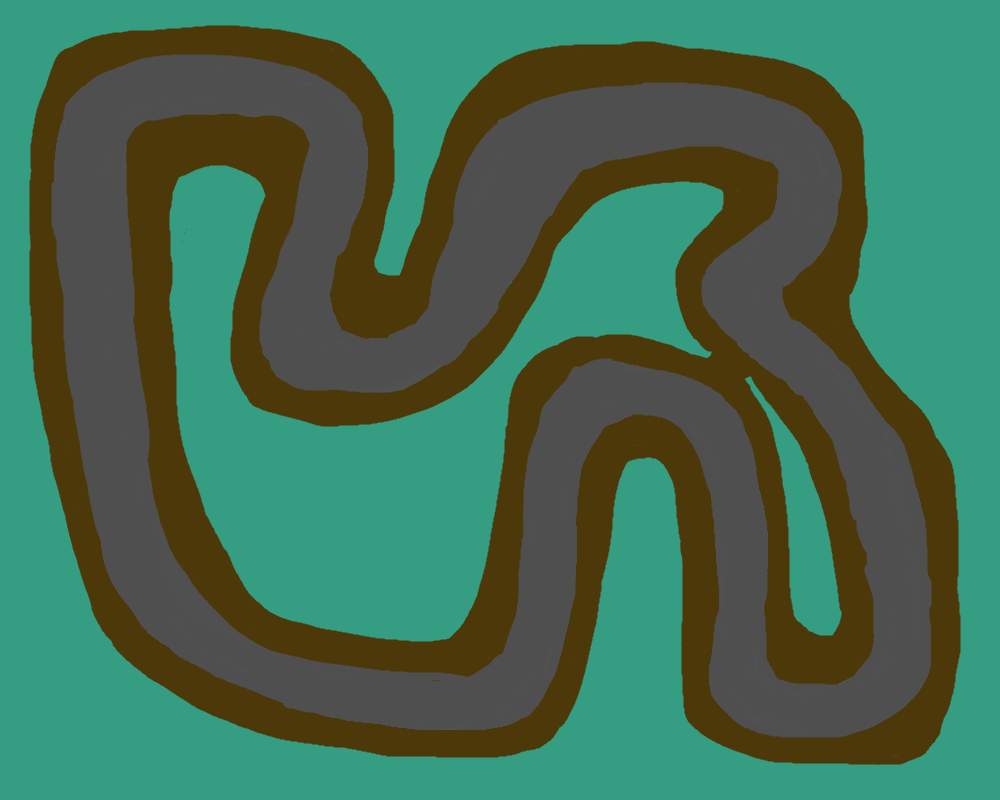
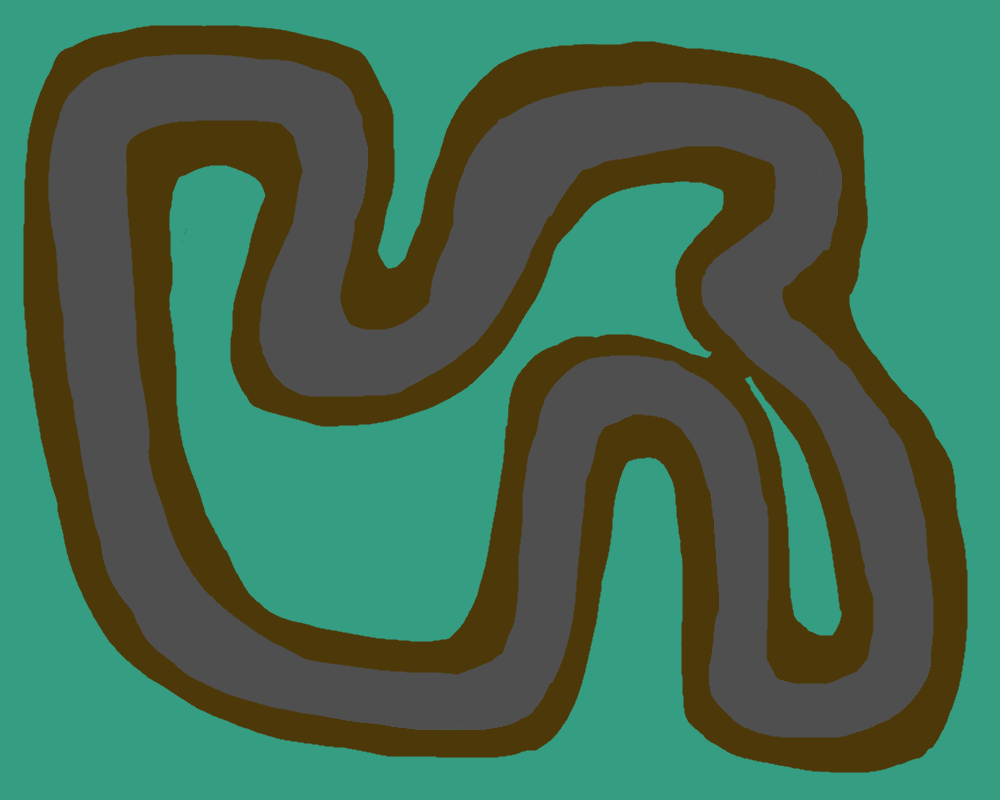
separated track into layers
first implementations at trying to use different method of player deceleration when going offroad, separated track into 2 layers

diff --git a/src/Raceing.java b/src/Raceing.java
@@ -24,6 +24,8 @@ import javax.swing.border.LineBorder;
 
 public class Raceing extends JFrame {
     private static StartScreen startScreen;
+    private static Image twisty_turn_main;
+    private static Image twisty_turn_outline;
 
     public Raceing() {
         setup();
@@ -126,7 +128,6 @@ public class Raceing extends JFrame {
 
     private static class MyPanel extends JPanel implements KeyListener {
         private boolean startRace = false;
-        private Image twisty_turn;
         private Image carModel;
         private Image carModel2;
         private double player1X;
@@ -139,8 +140,9 @@ public class Raceing extends JFrame {
         private JLabel velLabel2;
         
         public MyPanel() {
-            twisty_turn = new ImageIcon("twist_and_turn.png").getImage();
-            BufferedImage bufferedTwisty = toBufferedImage(twisty_turn);
+            twisty_turn_main = new ImageIcon("twist_and_turn_maintrack.png").getImage();
+            twisty_turn_outline = new ImageIcon("twist_and_turn_outline.png").getImage();
+
             carModel = loadAndResizeImage("car1.png", 50, 80);
             carModel2 = loadAndResizeImage("car2.png", 50, 80);
 
@@ -190,11 +192,17 @@ public class Raceing extends JFrame {
             super.paintComponent(g);
             if (startRace) {
                 Graphics2D g2d = (Graphics2D) g;
-                double scaleX = (double) getWidth() / twisty_turn.getWidth(null);
-                double scaleY = (double) getHeight() / twisty_turn.getHeight(null);
+                double scaleX = (double) getWidth() / twisty_turn_main.getWidth(null);
+                double scaleY = (double) getHeight() / twisty_turn_main.getHeight(null);
+
+                double scaleX1 = (double) getWidth() / twisty_turn_outline.getWidth(null);
+                double scaleY1 = (double) getHeight() / twisty_turn_outline.getHeight(null);
 
                 AffineTransform scaleTransform = AffineTransform.getScaleInstance(scaleX, scaleY);
-                g2d.drawImage(twisty_turn, scaleTransform, this);
+                g2d.drawImage(twisty_turn_main, scaleTransform, this);
+
+                AffineTransform scaleTransform1 = AffineTransform.getScaleInstance(scaleX1, scaleY1);
+                g2d.drawImage(twisty_turn_outline, scaleTransform1, this);
 
                 AffineTransform rotationTransform = AffineTransform.getRotateInstance(playerRotation,
                         player1X + carModel.getWidth(null) / 2, player1Y + carModel.getHeight(null) / 2);
@@ -292,26 +300,34 @@ public class Raceing extends JFrame {
         }
 
         private Color getBackgroundColor(int x, int y) {
-            BufferedImage newMap = toBufferedImage(twisty_turn);
+            BufferedImage newMap = toBufferedImage(twisty_turn_main);
+            BufferedImage newMap2 = toBufferedImage(twisty_turn_outline);
             int rgb = newMap.getRGB(x, y);
+            int rgb1 = newMap2.getRGB(x, y);
             return new Color(rgb, true);
         }
 
-        private BufferedImage toBufferedImage(Image image) {
+        private static BufferedImage toBufferedImage(Image image) {
+            if (image == null) {
+                // Handle the case when the image is not loaded properly
+                System.err.println("Error: Unable to load image");
+                return null;
+            }
+    
             if (image instanceof BufferedImage) {
                 return (BufferedImage) image;
             }
-        
+    
             BufferedImage bufferedImage = new BufferedImage(
                     image.getWidth(null),
                     image.getHeight(null),
                     BufferedImage.TYPE_INT_ARGB
             );
-        
+    
             Graphics2D g = bufferedImage.createGraphics();
             g.drawImage(image, 0, 0, null);
             g.dispose();
-        
+    
             return bufferedImage;
         }
     }
@@ -463,32 +479,74 @@ public class Raceing extends JFrame {
             double newX = isPlayer2 ? panel.player2X : panel.player1X;
             double newY = isPlayer2 ? panel.player2Y : panel.player1Y;
 
-            int pixelX = (int) newX;
-            int pixelY = (int) newY;
-            Color backgroundColor = panel.getBackgroundColor(pixelX, pixelY);
-
-            // if (isSlowTerrain(backgroundColor)) {
-            //     velocity *= 0.2;  // Adjust this factor according to your preference
-            // }
-
             newX += velocity * Math.cos(adjustedAngle);
             newY += velocity * Math.sin(adjustedAngle);
 
             newX = Math.max(XOFFSET, Math.min(newX, XOFFSET + WINWIDTH - 70));
             newY = Math.max(YOFFSET, Math.min(newY, YOFFSET + WINHEIGHT - 100));
 
+            int pixelX = (int) newX;
+            int pixelY = (int) newY;
+            // BufferedImage terrain = toBufferedImage(twisty_turn);
+
+            // if (isSlowTerrain(terrain, newX, newY)) {
+            //     velocity *= 0.9;
+            // }
+
             if (isPlayer2) {
                 panel.setPlayer2Position(newX, newY);
+                p2velocity = velocity;
             } else {
-                panel.setPlayerPosition(newX, newY);
+                panel.setPlayerPosition(newX, newY); 
+                p1velocity = velocity;
             }
         }
 
-        // private boolean isSlowTerrain(Color color) {
-        //     // Check if the color represents the slow terrain (dirt or grass)
-        //     // Adjust the conditions based on the specific color values in your background image
-        //     return color.equals(Color.GREEN) || color.equals(Color.BROWN);
-        // }
+        private boolean isSlowTerrain(BufferedImage terrain, double x, double y) {
+            int pixelX = (int) Math.round(x);
+            int pixelY = (int) Math.round(y);
+            
+            if (pixelX < 0 || pixelY < 0 || pixelX >= terrain.getWidth() || pixelY >= terrain.getHeight()) {
+                // Make sure the indices are within valid bounds
+                return false;
+            }
+        
+            int pixelColor = terrain.getRGB(pixelX, pixelY);
+            Color color = new Color(pixelColor);
+
+            int grayscaleValue = (int) (color.getRed() * 0.299 + color.getGreen() * 0.587 + color.getBlue() * 0.114);
+
+            // Define a threshold range for grayscale values corresponding to the main track
+            int trackMinGrayscale = 100;  // Adjust this value based on your needs
+            int trackMaxGrayscale = 200;  // Adjust this value based on your needs
+
+            // Check if the grayscale value is not within the main track range
+            return (grayscaleValue < trackMinGrayscale || grayscaleValue > trackMaxGrayscale);
+        }
+
+        private static BufferedImage toBufferedImage(Image image) {
+            if (image == null) {
+                // Handle the case when the image is not loaded properly
+                System.err.println("Error: Unable to load image");
+                return null;
+            }
+    
+            if (image instanceof BufferedImage) {
+                return (BufferedImage) image;
+            }
+    
+            BufferedImage bufferedImage = new BufferedImage(
+                    image.getWidth(null),
+                    image.getHeight(null),
+                    BufferedImage.TYPE_INT_ARGB
+            );
+    
+            Graphics2D g = bufferedImage.createGraphics();
+            g.drawImage(image, 0, 0, null);
+            g.dispose();
+    
+            return bufferedImage;
+        }
 
         private double velocityStep;
         private double rotateStep;
@@ -498,7 +556,6 @@ public class Raceing extends JFrame {
         private static final double maxSpeed = 3.25;
         private static final double accel = 0.0725;
         private static final double decel = 0.5;
-        //private double currentSpeed = 0.0;
         private boolean accelerating = false;
         private static final double deceleration = 0.08;
         private boolean isAccel = false;
